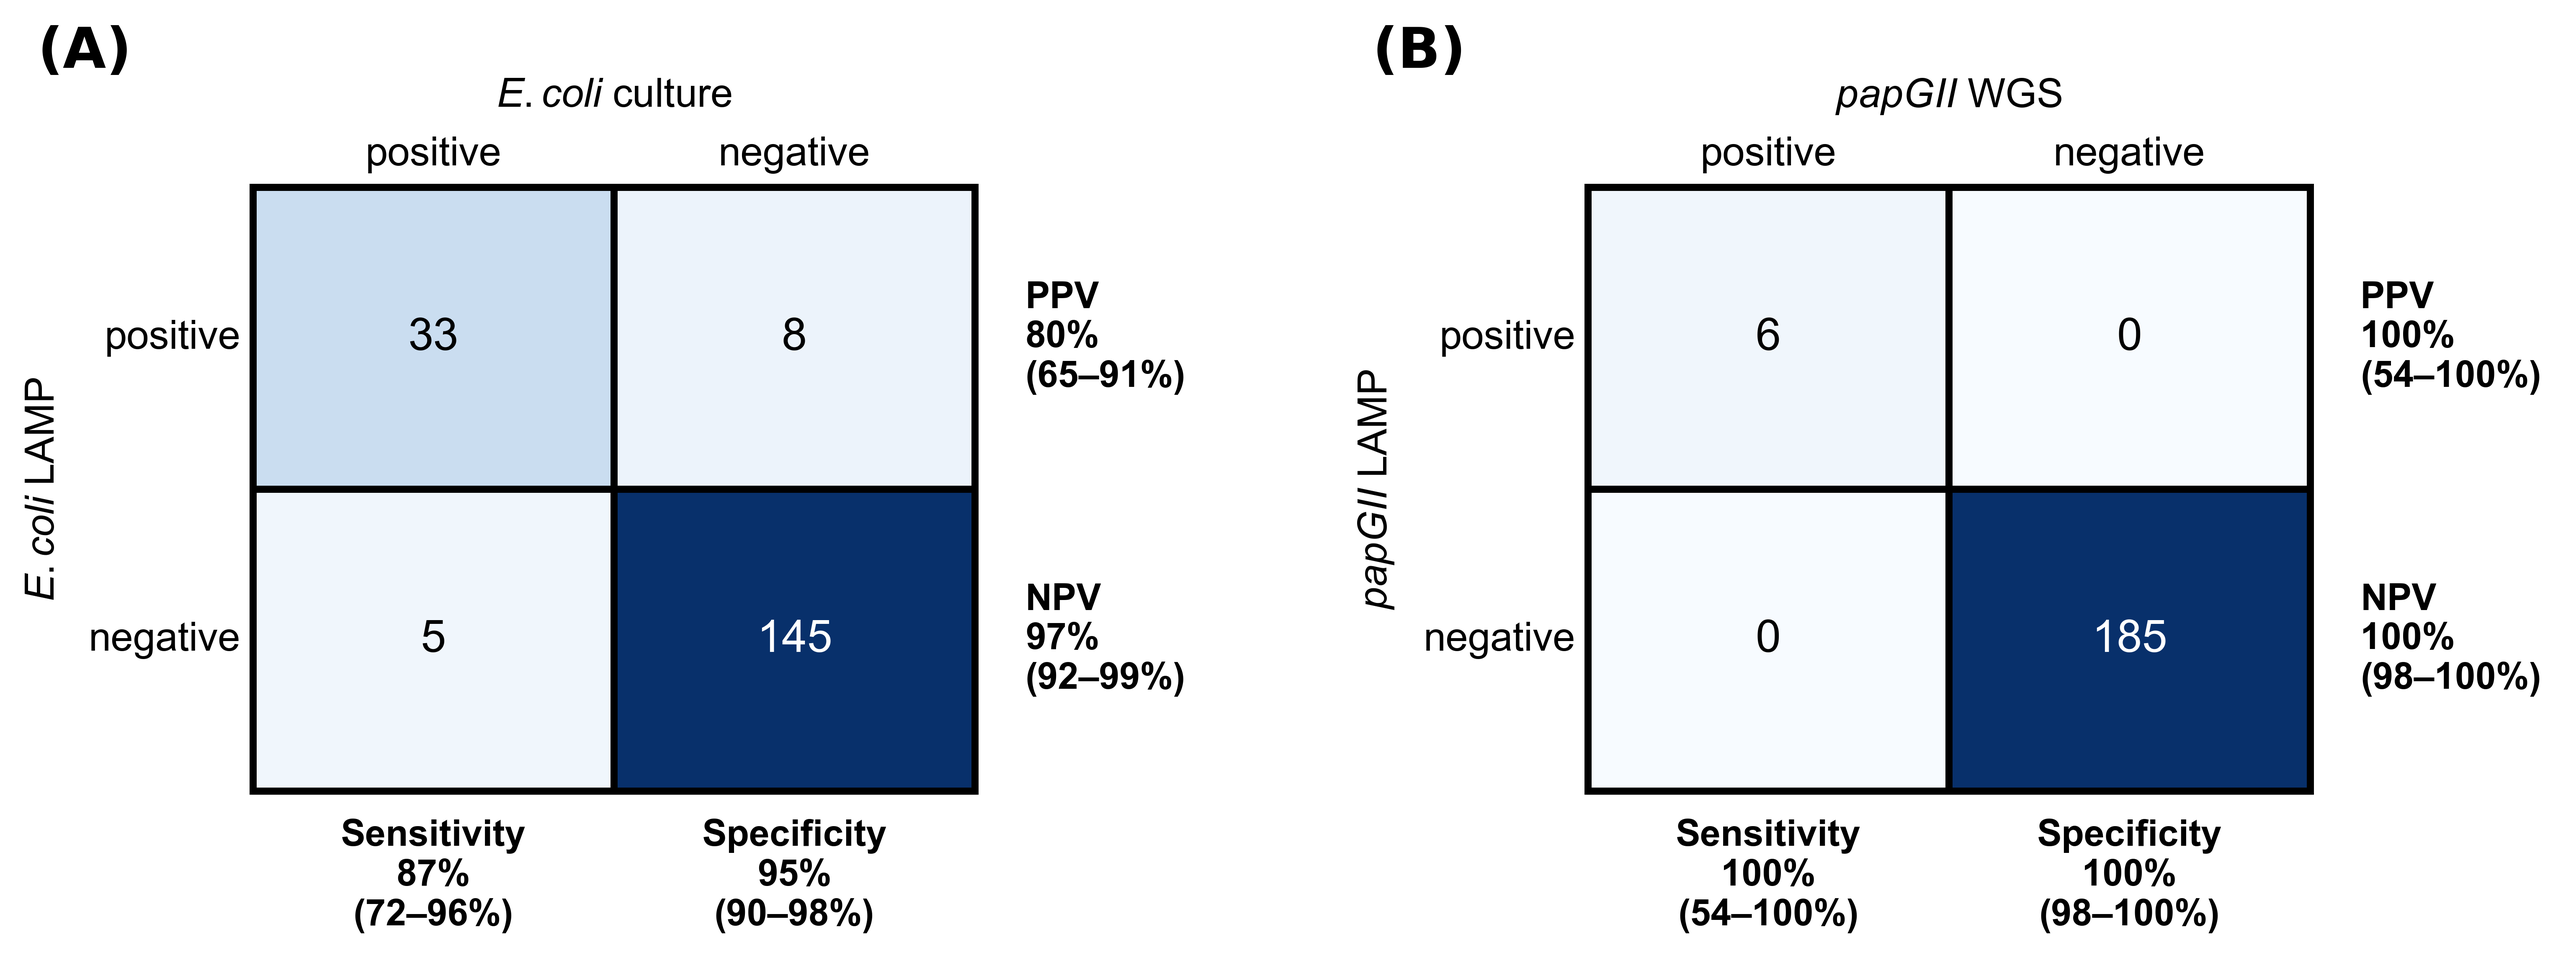
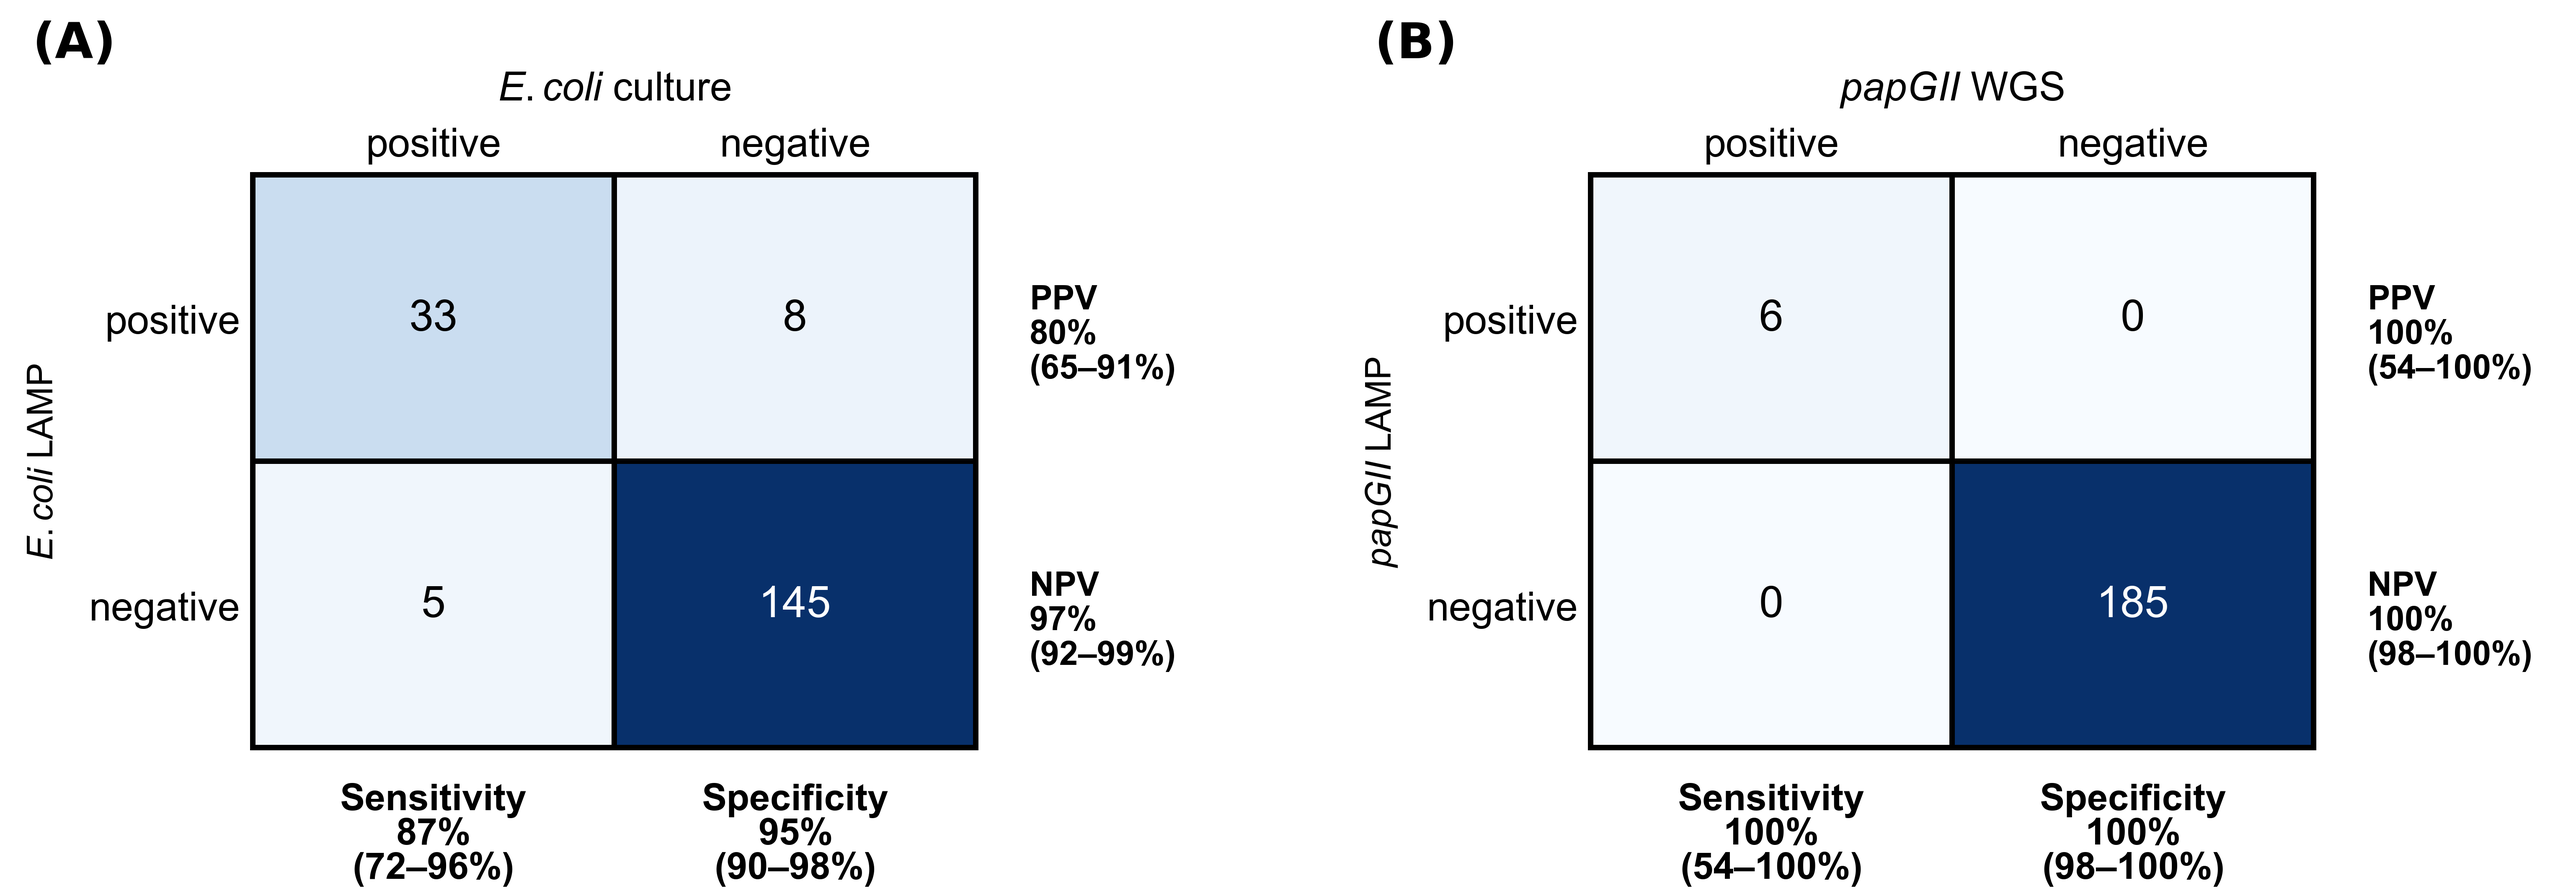
Figure 5: pixel-exact geometry of the original (frame 6 px, positions and text widths within 1-2 px); Arial, % and 95% CI added

diff --git a/scripts/fig5_confusion.py b/scripts/fig5_confusion.py
@@ -19,7 +19,6 @@ OUT = RESULTS / "figures"
 mpl.rcParams.update({"font.family": "sans-serif", "font.sans-serif": ["Arial", "Helvetica", "DejaVu Sans"],
                      "mathtext.fontset": "custom", "mathtext.rm": "Arial", "mathtext.it": "Arial:italic", "mathtext.bf": "Arial:bold",
                      "pdf.fonttype": 42, "svg.fonttype": "none", "svg.hashsalt": "lamp-fig5"})
-LETTER = {"fontsize": 16, "fontweight": "bold", "family": "DejaVu Sans"}
 PANELS = [("uidA", "ecoli", "$\\it{E. coli}$", "culture", "(A)"), ("papGII", "wgs_papGII", "$\\it{papGII}$", "WGS", "(B)")]
 
 
@@ -35,55 +34,57 @@ def pct(a, b):
     return f"{100 * a / b:.0f}%\n({100 * lo:.0f}–{100 * hi:.0f}%)"
 
 
-# Layout of the original Figure 5 (pixel positions in the 2000-px-wide rendering of the original, 9.8 in wide; converted to inches)
-IN = 9.8 / 2000
-FIG_W_PX, FIG_H_PX = 2095, 708            # a little wider than the original (room for the CI line next to PPV / NPV of panel B)
-MATRIX = {"A": (205, 792), "B": (1290, 1877)}            # left / right edge of the matrix (px)
-M_TOP, M_BOT = 142, 607                                  # top / bottom edge of the matrices (px)
-X_LETTER, X_YLAB, X_RIGHT = {"A": 30, "B": 1115}, {"A": 35, "B": 1118}, {"A": 833, "B": 1918}
-FS_NUM, FS_TICK, FS_TITLE, FS_MARGIN = 13, 11.5, 11.5, 10.6
+# Geometry of the original Figure 5, measured pixel by pixel on the 2944 x 1042 px original (300 dpi); panel B = panel A shifted by DX.
+DPI = 300
+W_PX, H_PX = 3075, 1070                       # canvas: the original (2944 x 1042) plus room for the CI lines (right of PPV/NPV, below Sens./Spec.)
+FRAME = {"x0": 301.5, "x1": 1164.5, "y0": 208.5, "y1": 892.5}          # centre lines of the outer frame (px)
+DX = {"A": 0, "B": 1597}
+LW = 1.50                                      # frame lines: 6 px at 300 dpi (non-antialiased rendering rounds 1.44 pt down to 5 px)
+FS_NUM, FS_TICK, FS_TITLE, FS_YLAB, FS_RIGHT, FS_BOTTOM = 12.5, 11.45, 11.4, 10.1, 9.7, 10.7    # pt (Arial sizes that reproduce the widths of the original text)
+LETTER = {"fontsize": 14.2, "fontweight": "bold", "family": "DejaVu Sans"}
 
 
 def panel(fig, key, tp, fp, fn, tn, gene, ref_name, letter):
-    x0, x1 = MATRIX[key]
-    px = lambda x, y: (x / FIG_W_PX, 1 - y / FIG_H_PX)                          # pixel -> figure fraction
-    ax = fig.add_axes([x0 / FIG_W_PX, 1 - M_BOT / FIG_H_PX, (x1 - x0) / FIG_W_PX, (M_BOT - M_TOP) / FIG_H_PX])
+    dx = DX[key]
+    px = lambda x, y: ((x + dx) / W_PX, 1 - y / H_PX)                       # original-pixel -> figure fraction
+    f = FRAME
+    ax = fig.add_axes([(f["x0"] + dx) / W_PX, 1 - f["y1"] / H_PX, (f["x1"] - f["x0"]) / W_PX, (f["y1"] - f["y0"]) / H_PX])
     cm = np.array([[tp, fp], [fn, tn]])
     ax.imshow(cm, cmap="Blues", vmin=0, vmax=cm.max(), extent=(0, 2, 2, 0), interpolation="none", aspect="auto", zorder=0)
-    lw = 2.0
-    bd = Rectangle((0, 0), 2, 2, fill=False, linewidth=lw, edgecolor="black", antialiased=False, zorder=3); bd.set_clip_on(False); ax.add_patch(bd)
-    ax.add_collection(LineCollection([[(0, 1), (2, 1)], [(1, 0), (1, 2)]], colors="black", linewidths=lw, antialiased=False, zorder=3))
+    bd = Rectangle((0, 0), 2, 2, fill=False, linewidth=LW, edgecolor="black", antialiased=False, joinstyle="miter", zorder=3); bd.set_clip_on(False); ax.add_patch(bd)
+    lc = LineCollection([[(0, 1), (2, 1)], [(1, 0), (1, 2)]], colors="black", linewidths=LW, antialiased=False, capstyle="butt", zorder=3)
+    ax.add_collection(lc)
     for i in range(2):
         for j in range(2):
-            ax.text(j + 0.5, i + 0.5, f"{cm[i, j]}", ha="center", va="center", fontsize=FS_NUM, zorder=4,
+            ax.text(j + 0.5, i + 0.5 + 0.006, f"{cm[i, j]}", ha="center", va="center", fontsize=FS_NUM, zorder=4,
                     color="white" if cm[i, j] >= cm.max() * 0.5 else "black")
     ax.set_xlim(0, 2); ax.set_ylim(2, 0); ax.axis("off")
-    cx = [(x0 + (x1 - x0) * f) for f in (0.25, 0.75)]                          # column centres (px)
-    ry = [M_TOP + (M_BOT - M_TOP) * f for f in (0.25, 0.75)]                   # row centres (px)
+    cx = [517.5, 949.5]                                                     # column centres (px)
+    ry = [379.5, 721.5]                                                     # row centres (px)
     for x, lab in zip(cx, ("positive", "negative")):
-        fig.text(*px(x, 117), lab, ha="center", va="center", fontsize=FS_TICK)                         # top: reference
+        fig.text(*px(x, 187), lab, ha="center", va="baseline", fontsize=FS_TICK)                         # top: reference result
     for y, lab in zip(ry, ("positive", "negative")):
-        fig.text(*px(x0 - 10, y), lab, ha="right", va="center", fontsize=FS_TICK)                      # left: LAMP
-    fig.text(*px((x0 + x1) / 2, 72), f"{gene} {ref_name}", ha="center", va="center", fontsize=FS_TITLE)
-    fig.text(*px(X_YLAB[key], (M_TOP + M_BOT) / 2), f"{gene} LAMP", rotation=90, ha="center", va="center", fontsize=FS_TITLE)
-    fig.text(*px(X_LETTER[key], 38), letter, ha="left", va="center", **LETTER)
-    for y, lab, val in zip(ry, ("PPV", "NPV"), (pct(tp, tp + fp), pct(tn, tn + fn))):                 # right margin, left-aligned as in the original
-        fig.text(*px(X_RIGHT[key], y), f"{lab}\n{val}", ha="left", va="center", fontsize=FS_MARGIN, fontweight="bold", linespacing=1.2)
-    for x, lab, val in zip(cx, ("Sensitivity", "Specificity"), (pct(tp, tp + fn), pct(tn, tn + fp))):  # bottom, centred under the columns
-        fig.text(*px(x, 628), f"{lab}\n{val}", ha="center", va="top", fontsize=FS_MARGIN, fontweight="bold", linespacing=1.2)
+        fig.text(*px(287, y + 2), lab, ha="right", va="center_baseline", fontsize=FS_TICK)                   # left: LAMP result
+    fig.text(*px(733, 120), f"{gene} {ref_name}", ha="center", va="baseline", fontsize=FS_TITLE)
+    fig.text(*px(52, 552), f"{gene} LAMP", rotation=90, ha="center", va="center", fontsize=FS_YLAB)
+    fig.text(*px(39 if key == "A" else 44, 53), letter, ha="left", va="center", **LETTER)
+    for y, lab, val in zip((400.5, 742.5), ("PPV", "NPV"), (pct(tp, tp + fp), pct(tn, tn + fn))):       # right margin, left-aligned
+        fig.text(*px(1229, y), f"{lab}\n{val}", ha="left", va="center", fontsize=FS_RIGHT, fontweight="bold", linespacing=1.14)
+    for x, lab, val in zip(cx, ("Sensitivity", "Specificity"), (pct(tp, tp + fn), pct(tn, tn + fp))):  # bottom, centred
+        fig.text(*px(x, 935), f"{lab}\n{val}", ha="center", va="top", fontsize=FS_BOTTOM, fontweight="bold", linespacing=1.0)
 
 
 def main():
     OUT.mkdir(parents=True, exist_ok=True)
     meta = load_samples()
-    fig = plt.figure(figsize=(FIG_W_PX * IN, (FIG_H_PX + 40) * IN))
+    fig = plt.figure(figsize=(W_PX / DPI, H_PX / DPI), dpi=DPI)
     for target, ref_col, gene, ref_name, letter in PANELS:
         tp, fp, fn, tn = counts(meta, target, ref_col)
         panel(fig, "A" if target == "uidA" else "B", tp, fp, fn, tn, gene, ref_name, letter)
         print(target, dict(TP=tp, FP=fp, FN=fn, TN=tn))
     for ext in ("pdf", "png", "svg"):
         meta_ = {"pdf": {"CreationDate": None, "Creator": "fig5_confusion.py"}, "svg": {"Date": None}}.get(ext)
-        fig.savefig(OUT / f"fig5.{ext}", dpi=600 if ext == "png" else None, bbox_inches="tight", metadata=meta_)
+        fig.savefig(OUT / f"fig5.{ext}", dpi=2 * DPI if ext == "png" else None, metadata=meta_)       # PNG at 600 dpi (twice the 300-dpi geometry)
 
 
 if __name__ == "__main__":
